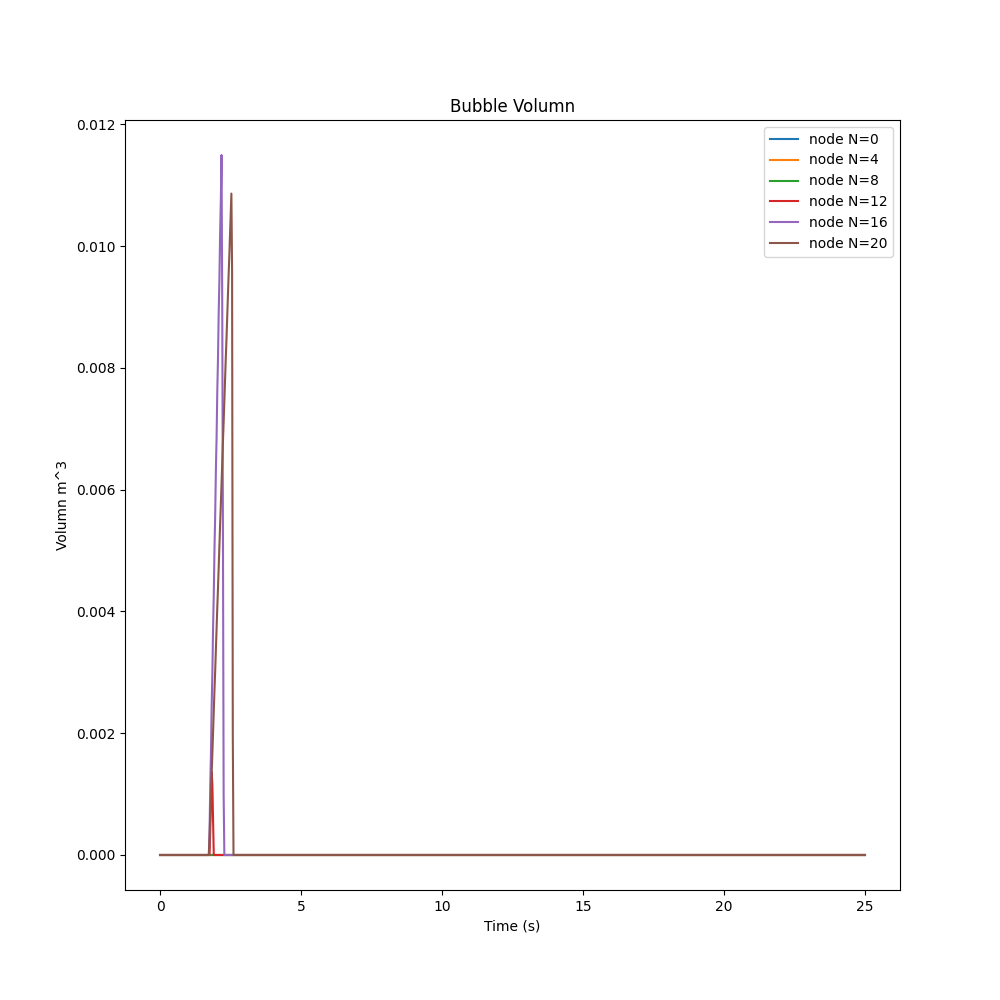
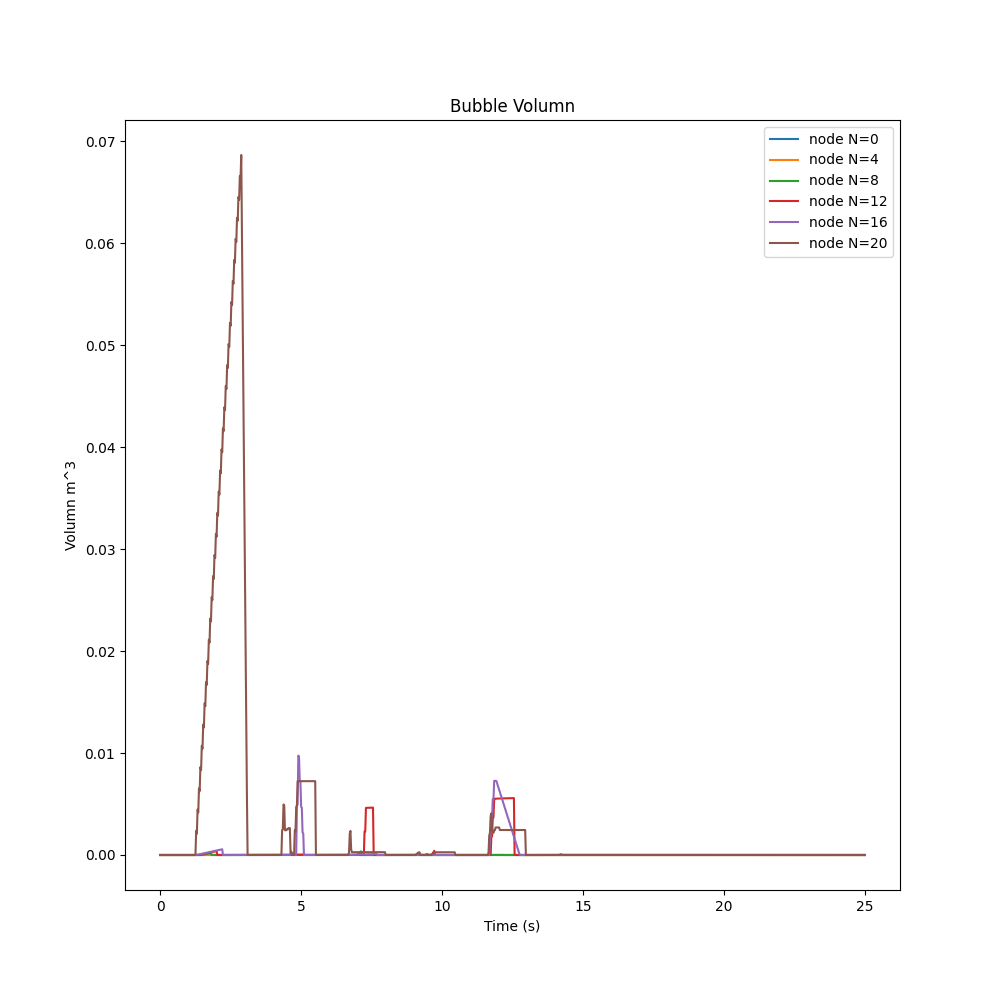
自主

diff --git a/自主研究探索课程（1）/Project/Code/DVCM.py b/自主研究探索课程（1）/Project/Code/DVCM.py
@@ -12,7 +12,7 @@ f = 0.018
 # k is a coefficient
 k = 0.009
 g = 9.806
-t_c = 1.0
+t_c = 0.3
 E_m = 1.5
 rho = 1000
 # The minimum water head at which the water will vaporize
@@ -23,7 +23,7 @@ N = 20
 dx = L/N
 dt = dx/a
 T = 25
-psi = 0.8
+psi = 1.0
 N_t = int(T/dt)
 
 # initialize the Q, H and E, E is the volumn of the cavity, axis 0 is time, axis 1 is the position
@@ -63,10 +63,11 @@ for i in range(1,N_t+1):
                 Q[i,j] = (C_P-C_M)/(2*B)
                 Qu[i,j] = Q[i,j]
                 if H[i,j] < H_min:
-                    H[i,j] = H_min
-                    Qu[i,j] = (-H[i,j]+H[i-1,j-1]+B*Q[i-1,j-1])/(B+R*abs(Q[i-1,j-1]))
-                    Q[i,j] = (H[i,j]-H[i-1,j+1]+B*Qu[i-1,j+1])/(B+R*abs(Qu[i-1,j+1]))
-                    E[i,j] = E[i-1,j] + psi*(Q[i,j]*dt - Qu[i,j]*dt) + (1-psi)*(Q[i-1,j]*dt - Qu[i-1,j]*dt)
+                    # H[i,j] = H_min
+                    # Qu[i,j] = (-H[i,j]+H[i-1,j-1]+B*Q[i-1,j-1])/(B+R*abs(Q[i-1,j-1]))
+                    # Q[i,j] = (H[i,j]-H[i-1,j+1]+B*Qu[i-1,j+1])/(B+R*abs(Qu[i-1,j+1]))
+                    # E[i,j] = E[i-1,j] + psi*(Q[i,j]*dt - Qu[i,j]*dt) + (1-psi)*(Q[i-1,j]*dt - Qu[i-1,j]*dt)
+                    E[i,j] = +1e-10
             if j == N:
                 C_P = H[i-1,j-1]+Q[i-1,j-1]*(B+S-R*abs(Q[i-1,j-1]))
                 C_V = (Q_0*tau)**2/(2*H_0)
@@ -76,10 +77,11 @@ for i in range(1,N_t+1):
                 if H[i,j] < H_min:
                     if t < t_c:
                         raise("Cavitation before t_c")
-                    H[i,j] = H_min
-                    Qu[i,j] = (-H[i,j]+H[i-1,j-1]+B*Q[i-1,j-1])/(B+R*abs(Q[i-1,j-1]))
-                    Q[i,j] = 0
-                    E[i,j] = E[i-1,j] + psi*(Q[i,j]*dt - Qu[i,j]*dt) + (1-psi)*(Q[i-1,j]*dt - Qu[i-1,j]*dt)
+                    # H[i,j] = H_min
+                    # Qu[i,j] = (-H[i,j]+H[i-1,j-1]+B*Q[i-1,j-1])/(B+R*abs(Q[i-1,j-1]))
+                    # Q[i,j] = 0
+                    # E[i,j] = E[i-1,j] + psi*(Q[i,j]*dt - Qu[i,j]*dt) + (1-psi)*(Q[i-1,j]*dt - Qu[i-1,j]*dt)
+                    E[i,j] = 1e-10
         # If the cavitation happens, E[i,j] > 0
         elif E[i-1,j] > 0:
             if j == 0:
@@ -91,11 +93,11 @@ for i in range(1,N_t+1):
                 E[i,j] = E[i-1,j] + psi*(Q[i,j]*dt - Qu[i,j]*dt) + (1-psi)*(Q[i-1,j]*dt - Qu[i-1,j]*dt)
                 if E[i, j] < 0:
                     E[i, j] = 0
-                    C_P = H[i-1,j-1]+Q[i-1,j-1]*(B+S-R*abs(Q[i-1,j-1]))
-                    C_M = H[i-1,j+1]-Q[i-1,j+1]*(B-S-R*abs(Q[i-1,j+1]))
-                    H[i,j] = (C_P+C_M)/2
-                    Q[i,j] = (C_P-C_M)/(2*B)
-                    Qu[i,j] = Q[i,j]
+                    # C_P = H[i-1,j-1]+Q[i-1,j-1]*(B+S-R*abs(Q[i-1,j-1]))
+                    # C_M = H[i-1,j+1]-Q[i-1,j+1]*(B-S-R*abs(Q[i-1,j+1]))
+                    # H[i,j] = (C_P+C_M)/2
+                    # Q[i,j] = (C_P-C_M)/(2*B)
+                    # Qu[i,j] = Q[i,j]
 
             if j == N:
                 H[i,j] = H_min
@@ -104,11 +106,11 @@ for i in range(1,N_t+1):
                 E[i,j] = E[i-1,j] + (1-psi)*(Q[i,j]*dt - Qu[i,j]*dt) + psi*(Q[i-1,j]*dt - Qu[i-1,j]*dt)
                 if E[i,j] < 0:
                     E[i,j] = 0
-                    C_P = H[i-1,j-1]+Q[i-1,j-1]*(B+S-R*abs(Q[i-1,j-1]))
-                    C_V = (Q_0*tau)**2/(2*H_0)
-                    Q[i,j] = -B*C_V+np.sqrt((B*C_V)**2+2*C_V*C_P)
-                    H[i,j] = C_P - B*Q[i,j]
-                    Qu[i,j] = Q[i,j]
+                    # C_P = H[i-1,j-1]+Q[i-1,j-1]*(B+S-R*abs(Q[i-1,j-1]))
+                    # C_V = (Q_0*tau)**2/(2*H_0)
+                    # Q[i,j] = -B*C_V+np.sqrt((B*C_V)**2+2*C_V*C_P)
+                    # H[i,j] = C_P - B*Q[i,j]
+                    # Qu[i,j] = Q[i,j]
 
 
 
@@ -122,6 +124,7 @@ plt.figure(figsize=(12,10), dpi=100)
 
 for i in range(N+1):
     if i%int(int(N)/2) == 0:
+    # if i == 2:
         plt.plot(np.arange(0,N_t+1)*dt,H[:,i],label=f'node N={i}')
 # Draw line H_min, and the maximum water head
 plt.plot(np.arange(0,N_t+1)*dt,np.ones(N_t+1)*H_min,label=f'H_min={H_min}',linestyle='--')
